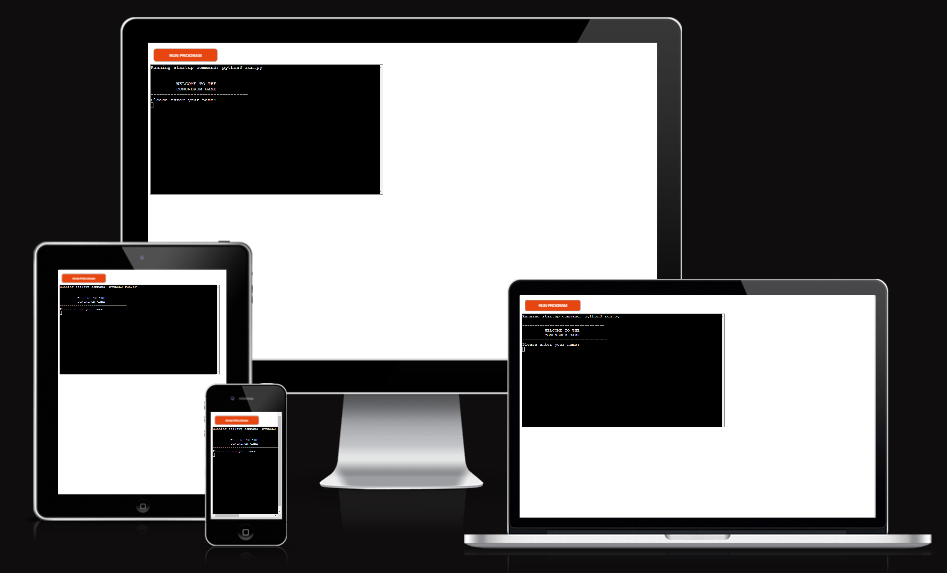
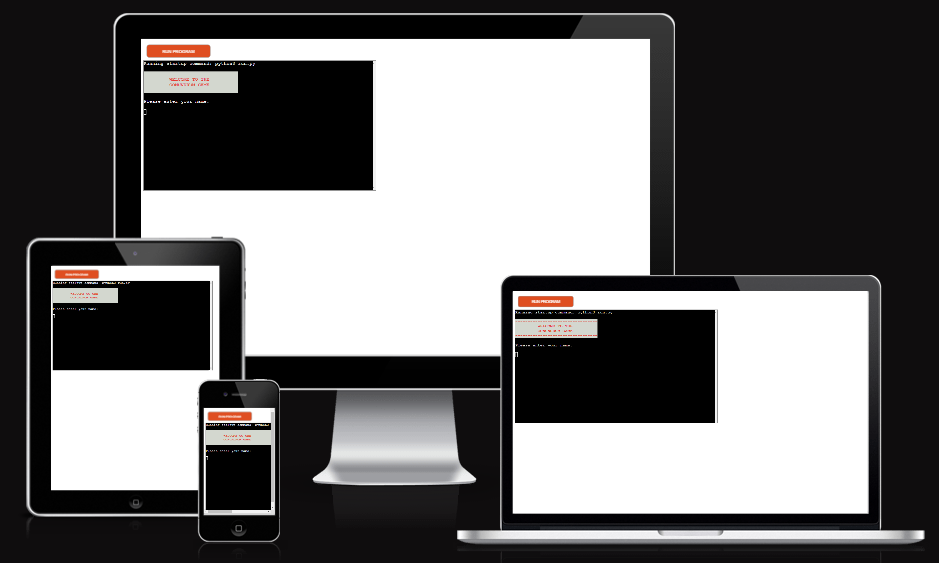
update snips with new rich version of game

Changed region(s): [[0.0, 0.0, 0.9883, 0.9663]]

diff --git a/run.py b/run.py
@@ -5,14 +5,13 @@ import time
 from rich.console import Console
 
 
-# Global variable for scoring as per Student support advice
+# Global variable for scoring as per CI Student Support instruction
 SCORE = 0
 console = Console()
 
 def scramble_word(word):
     '''
-    Return a random word from the list using the sample function
-    Use join to convert to a string
+    Return a random word from the word list using the random sample method 
     '''
     return ''.join(random.sample(word, len(word)))
 
